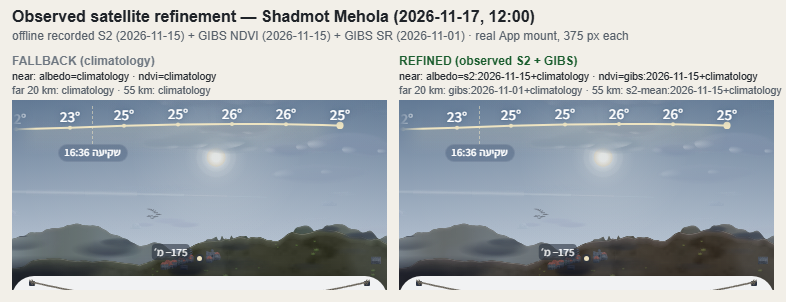
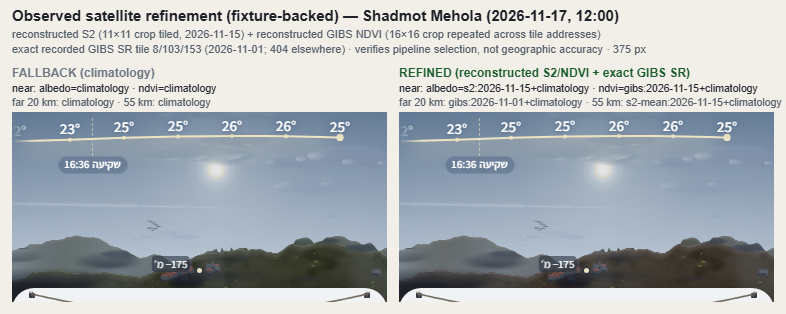
Label reconstructed S2/NDVI fixtures, qualify cached WorldCover path and update Stage 6 perf notes

diff --git a/docs/design/CANVAS-SCENE-PLAN.md b/docs/design/CANVAS-SCENE-PLAN.md
@@ -2493,8 +2493,10 @@ gated by Claude Code).
      bundled local 50 m tiles (`public/data/land/il/`) for ±6 km and a bundled regional 0.01° (~1 km) overview
      `public/data/land/il/coarse.json` (`28.8–33.4° N, 34.0–36.8° E`, built by `scripts/land/buildCoarse.ts`) as the fast
      path where the ±60 km footprint is covered or intersects; outside that regional box (or where it only partially covers
-     the footprint), `loadFootprintLandCoverResult` serves any persisted cached cover immediately and fetches remote ESA
-     WorldCover COGs via Planetary Computer SAS (`worldCoverCog.ts`), caching the 1 km mosaic in IndexedDB.
+     the footprint), `loadFootprintLandCoverResult` serves any persisted cached cover immediately and returns without a
+     remote request when a fresh persisted mosaic already covers the footprint (`landData.ts`); only on a cache miss,
+     incomplete coverage or stale/expired refresh does it fetch remote ESA WorldCover COGs via Planetary Computer SAS
+     (`worldCoverCog.ts`), caching the 1 km mosaic in IndexedDB.
    - *Fallback:* climatology by Köppen–Geiger class (0.5° table generated from Beck et al. 2018 by
      `scripts/land/buildKoppen.ts`, checksum pinned), month and cover class (`climatology.ts`).
    - *Cache:* IndexedDB `shamayim-land-v1` (`landCache.ts`), with per-source fresh TTLs and hard stale caps (evicted past
@@ -2553,16 +2555,18 @@ gated by Claude Code).
      in CSS pixels per second (`widthScale = box.width / SCENE_W`, `350` m near floor), with a weaker far veil
      (`0.26` vs `0.75` near alpha).
    - *Animation & per-frame cost:* windy canopies bake 10 poses (`LAND_GUST`, 5 fps over 2 s) once per key in the
-     paint worker (or lazily per frame on the main thread); `RemoteCache.flush()` sends single-frame terrain/static
-     layers ahead of multi-frame strips in a separate batch (`PRIORITY.canopy = 3` after `plane = 2` on the main thread)
-     so animated canopies do not block first terrain paint; `compositeOrder` interleaves `plane:form → canopy:form →
-     plane:light → canopy:light` so terrain light washes over crowns and crown catchlights stay above. `plane` form
-     keys never depend on wind or hour. Active playback costs 1–2 strip blits per canopy plus 1 pattern fill per dust
-     ribbon (`0` paint batches during playback). Across 3 repeat runs of `node e2e/land.wind.mjs --perf` (CPU ×4,
-     DPR 2.75, **exit 1** on all 3 repeats against the runner's strict `4.00` ms sum-of-p95 cap): `rosh-pina` sum p95
-     median `3.20` ms (`3.10–5.60` ms, PASS 2/3, `23.8` MB), `kalya` median `4.00` ms (`3.20–7.40` ms, PASS 2/3, `17.4`
-     MB), `ramon-crater` dust playback median `5.00` ms (`4.40–7.10` ms, FAIL 3/3; `land p95` `2.30–3.40` ms vs Stage 5's
-     `2.30` ms while `sky p95` varied `2.10–3.70` ms, `10.6` MB).
+     paint worker (or lazily per frame on the main thread); `RemoteCache` + `RemoteQueue` (`remoteQueue.ts`,
+     `paintWorkerRun.ts`) dispatch single-frame terrain/static layers and scrub light ahead of multi-frame strips and
+     split each strip across bounded 2-pose chunks (`STRIP_CHUNK_FRAMES = 2`, transferring one complete `ImageBitmap`
+     on the final chunk; `PRIORITY.canopy = 3` after `plane = 2` on the main thread) so newly arriving terrain or light
+     updates preempt after at most one short chunk and superseded strip keys cancel immediately. `compositeOrder`
+     interleaves `plane:form → canopy:form → plane:light → canopy:light` so terrain light washes over crowns and crown
+     catchlights stay above. `plane` form keys never depend on wind or hour. Active playback costs 1–2 strip blits per
+     canopy plus 1 pattern fill per dust ribbon (`0` paint batches during playback). Across 3 repeat runs of
+     `node e2e/land.wind.mjs --perf` (CPU ×4, DPR 2.75, **exit 1** on all 3 repeats against the runner's strict `4.00`
+     ms sum-of-p95 cap): `rosh-pina` sum p95 median `3.20` ms (`3.10–5.60` ms, PASS 2/3, `23.8` MB), `kalya` median
+     `4.00` ms (`3.20–7.40` ms, PASS 2/3, `17.4` MB), `ramon-crater` dust playback median `5.00` ms (`4.40–7.10` ms,
+     FAIL 3/3; `land p95` `2.30–3.40` ms vs Stage 5's `2.30` ms while `sky p95` varied `2.10–3.70` ms, `10.6` MB).
 
 *Final stills, checks and limits (stage 6):* Final before (`origin/main`) vs after (`land-living`) stills at 375 px live
 in `docs/design/qa/canvas/land/final/` (captured offline by `e2e/land.final.mjs` + `e2e/landObservedStill.mjs`, alongside
@@ -2575,13 +2579,17 @@ stage stills in `stage3/`, `stage4/`, `stage5/`):
   (all albedo and NDVI samples resolve to `climatology`).
 - *Observed satellite refinement pair* (`observed/shadmot-{fallback,refined}.png`, `observed/sources.json`,
   `sheet-observed.png`): matched offline fallback → refined capture on the real App mount at Shadmot Mehola
-  (`2026-11-17T12:00+02:00`) using the recorded Sentinel-2 (`2026-11-15`), GIBS NDVI (`2026-11-15`) and GIBS SR
-  (`2026-11-01`) fixtures. Resolved sources: *fallback* — near, far 20 km and far 55 km all `climatology` (cover
-  `worldcover-2021:local-50m` / `regional-1km`); *refined* — near `albedo = s2:2026-11-15+climatology`,
-  `ndvi = gibs:2026-11-15+climatology`; far 20 km `albedo = gibs:2026-11-01+climatology`, `ndvi = gibs:2026-11-15+climatology`;
-  far 55 km (missing GIBS SR tile) `albedo = s2-mean:2026-11-15+climatology`, `ndvi = gibs:2026-11-15+climatology`.
-- *Final checks:* `npx tsc -b` (0 errors), `npx vitest run --maxWorkers=2 --testTimeout=20000` (152 files / 1,347 tests),
-  `worker` (`npm run typecheck && npm test`: 6 files / 51 tests), `npm run lint` (0 errors), `npm run build` (483
+  (`2026-11-17T12:00+02:00`) using fixture-backed Sentinel-2 (`2026-11-15`), GIBS NDVI (`2026-11-15`) and GIBS SR
+  (`2026-11-01`) inputs. Provenance (`sources.json`): Sentinel-2 (`11×11` crop tiled to `256×256` 40 m UTM 36N GeoTIFFs)
+  and GIBS NDVI (`16×16` indexed-palette crop tiled to `256×256` PNG and repeated at every requested tile address) are
+  tiled reconstructions of recorded crops — verifying fixture-backed source selection and refinement plumbing rather than
+  geographic accuracy — whereas GIBS SR (`2026-11-01`) is the exact recorded `8/103/153` JPEG tile (`404` elsewhere).
+  Resolved sources: *fallback* — near, far 20 km and far 55 km all `climatology` (cover `worldcover-2021:local-50m` /
+  `regional-1km`); *refined* — near `albedo = s2:2026-11-15+climatology`, `ndvi = gibs:2026-11-15+climatology`; far 20 km
+  `albedo = gibs:2026-11-01+climatology`, `ndvi = gibs:2026-11-15+climatology`; far 55 km (missing GIBS SR tile)
+  `albedo = s2-mean:2026-11-15+climatology`, `ndvi = gibs:2026-11-15+climatology`.
+- *Final checks:* `npx tsc -b` (0 errors), `npx vitest run --maxWorkers=2 --testTimeout=20000` (153 files / 1,350 tests),
+  `worker` (`npm run typecheck && npm test`: 6 files / 51 tests), `npm run lint` (0 errors), `npm run build` (484
   modules), `npm run test:pixels` (69/69; 0 references changed in stage 6). Browser performance runners on this Windows
   host (CPU ×4, DPR 2.75): `npm run test:perf` **exited 1** (17/27 gates passed; App living-land fixture passed with 6
   unique fine tiles, 0 duplicates, missing-tile `s2-mean+climatology` fallback and 30/30 scrubs reusing `world.land` and
@@ -2594,15 +2602,16 @@ stage stills in `stage3/`, `stage4/`, `stage5/`):
   refinement `977.9 → 629.5` ms; scrub `254.8 → 252.5` ms). With an **animated canopy** (`e2e/land.perf.mjs --windy`,
   dense tree cover, 58/86 km/h westerly, motion on), unpatched `HEAD` held terrain behind 10-frame canopy strips in the
   same worker batch (`firstFallbackPaint` `8435 / 7676 / 11180` ms, `refinement` `5709 / 5493 / 6629` ms vs Stage 4
-  `2844 / 3963 / 3878` ms). Splitting single-frame layers ahead of multi-frame strips in `RemoteCache.flush()` lets
-  terrain composite `199–294` ms ahead of the animated canopy (`firstFallbackPaint` median `4895.9` vs Stage 4 `4243.2`
-  ms; `firstCanopy` median `5095.0` ms); when back-to-back updates arrive (S2 then GIBS, or rapid windy scrubbing), the
-  second terrain batch can still wait behind the first update's in-flight 10-frame canopy strip (`refinement`
-  `4834.6 / 2045.6 / 5029.2` ms vs Stage 4 `2312.3 / 2157.7 / 2177.7` ms, `refCanopy` +189–410 ms; scrub p50 `328–622`
-  vs `294–402` ms).
+  `2844 / 3963 / 3878` ms). With single-frame prioritization plus 2-pose chunked strip scheduling (`RemoteQueue` +
+  `makeWorkerRunner`), matched 3-pair alternating preview runs using **identical terrain-milestone triggers** on both
+  revisions (`e2e/landPerfMeasure.mjs`, passive canopy timestamping) show zero residual delay: `firstFallbackPaint`
+  `12,400.6 / 12,979.8 / 18,865.6` ms (median `12,979.8` ms) vs Stage 4 `9,455.2 / 16,157.1 / 13,340.0` ms (median
+  `13,340.0` ms, −2.7%), `refinement` `6,795.0 / 5,541.6 / 8,696.4` ms (median `6,795.0` ms) vs Stage 4
+  `4,789.0 / 6,860.1 / 7,532.5` ms (median `6,860.1` ms, −0.9%; passive `refCanopy` `5,452.5–9,201.5` ms), and
+  `sameDayScrubLight` p50 `856.2 / 1,236.8 / 1,449.4` ms (median `1,236.8` ms) vs Stage 4 `691.7 / 1,919.8 / 1,722.2` ms
+  (median `1,722.2` ms, −28.2%).
 - *Known limits:* recent-weather dryness stays on climatology until Worker deploy item 7 (`/v1/land-weather`) is live and
   `ASK_LAND_WEATHER` is flipped to `true`; residual cold `sceneModel` cost at crop-dense places (Nahalal ~15.6 ms
-  unthrottled), single-worker 10-pose animated canopy strip baking during rapid back-to-back updates, Ramon Crater dust
-  playback over the strict 4.00 ms sum-of-p95 budget, and host-baseline browser overruns carry into app-wide performance
-  work; mapped orchards/palms outside Israel rely on OSM crop polygons where present (coarse woodland, cropland, scrub
-  and bare ground work globally via WorldCover + Köppen–Geiger climatology).
+  unthrottled), Ramon Crater dust playback over the strict 4.00 ms sum-of-p95 budget, and host-baseline browser overruns
+  carry into app-wide performance work; mapped orchards/palms outside Israel rely on OSM crop polygons where present
+  (coarse woodland, cropland, scrub and bare ground work globally via WorldCover + Köppen–Geiger climatology).
